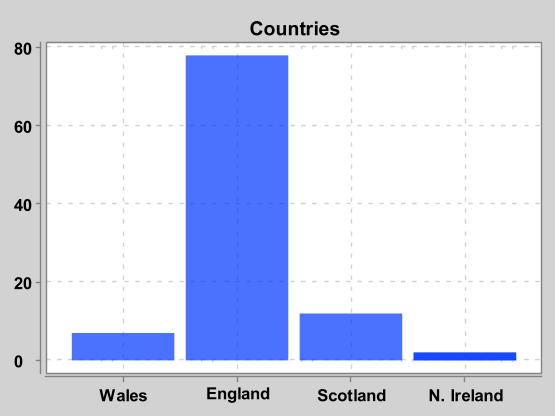
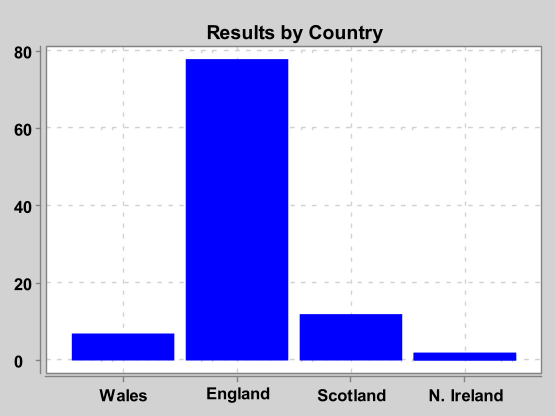
More Bar Charts

diff --git a/PwllStem/src/pwllstem/PwllStem.java b/PwllStem/src/pwllstem/PwllStem.java
@@ -118,14 +118,36 @@ public class PwllStem {
         BitmapEncoder.saveBitmapWithDPI(pieChartNIreVar, "./Pictures/NIREVariantPieChart", BitmapEncoder.BitmapFormat.PNG, 100);
     }
     public static void barChartsInit() throws IOException {
-        CategoryChart barChartVariants = new CategoryChartBuilder().width(400).height(300).title("Variants").build();
+        CategoryChart barChartVariants = new CategoryChartBuilder().width(400).height(300).title("Results by Variant").build();
         barChartVariants.getStyler().setLegendVisible(false);
+        barChartVariants.getStyler().setSeriesColors(new Color[] {Color.BLUE});
         barChartVariants.addSeries("Test", Arrays.asList(new String[] {"Alpha", "Delta", "Omicron", "Unknown"}), Arrays.asList(new Integer[] {alpPer, deltaPer, omiPer, unknownPer}));
-        CategoryChart barChartCountries = new CategoryChartBuilder().width(400).height(300).title("Countries").build();
+        CategoryChart barChartCountries = new CategoryChartBuilder().width(400).height(300).title("Results by Country").build();
         barChartCountries.getStyler().setLegendVisible(false);
+        barChartCountries.getStyler().setSeriesColors(new Color[] {Color.BLUE});
         barChartCountries.addSeries("Test", Arrays.asList(new String[] {"Wales", "England", "Scotland", "N. Ireland"}), Arrays.asList(new Integer[] {walPer, engPer, scoPer, nIrePer}));
+        CategoryChart barChartEngVar = new CategoryChartBuilder().width(400).height(300).title("Results by Variant").build();
+        barChartEngVar.getStyler().setLegendVisible(false);
+        barChartEngVar.getStyler().setSeriesColors(new Color[] {Color.BLUE});
+        barChartEngVar.addSeries("Test", Arrays.asList(new String[] {"Alpha", "Delta", "Omicron", "Unknown"}), Arrays.asList(new Integer[] {engAlpPer, engDeltaPer, engOmiPer, engUnknownPer}));
+        CategoryChart barChartWalVar = new CategoryChartBuilder().width(400).height(300).title("Results by Variant").build();
+        barChartWalVar.getStyler().setLegendVisible(false);
+        barChartWalVar.getStyler().setSeriesColors(new Color[] {Color.BLUE});
+        barChartWalVar.addSeries("Test", Arrays.asList(new String[] {"Alpha", "Delta", "Omicron", "Unknown"}), Arrays.asList(new Integer[] {walAlpPer, walDeltaPer, walOmiPer, walUnknownPer}));
+        CategoryChart barChartScoVar = new CategoryChartBuilder().width(400).height(300).title("Results by Variant").build();
+        barChartScoVar.getStyler().setLegendVisible(false);
+        barChartScoVar.getStyler().setSeriesColors(new Color[] {Color.BLUE});
+        barChartScoVar.addSeries("Test", Arrays.asList(new String[] {"Alpha", "Delta", "Omicron", "Unknown"}), Arrays.asList(new Integer[] {scoAlpPer, scoDeltaPer, scoOmiPer, scoUnknownPer}));
+        CategoryChart barChartNIreVar = new CategoryChartBuilder().width(400).height(300).title("Results by Variant").build();
+        barChartNIreVar.getStyler().setLegendVisible(false);
+        barChartNIreVar.getStyler().setSeriesColors(new Color[] {Color.BLUE});
+        barChartNIreVar.addSeries("Test", Arrays.asList(new String[] {"Alpha", "Delta", "Omicron", "Unknown"}), Arrays.asList(new Integer[] {nIreAlpPer, nIreDeltaPer, nIreOmiPer, nIreUnknownPer}));
         BitmapEncoder.saveBitmapWithDPI(barChartVariants, "./Pictures/UKVariantBarChart", BitmapEncoder.BitmapFormat.PNG, 100);
         BitmapEncoder.saveBitmapWithDPI(barChartCountries, "./Pictures/UKCountryBarChart", BitmapEncoder.BitmapFormat.PNG, 100);
+        BitmapEncoder.saveBitmapWithDPI(barChartEngVar, "./Pictures/ENGVariantBarChart", BitmapEncoder.BitmapFormat.PNG, 100);
+        BitmapEncoder.saveBitmapWithDPI(barChartWalVar, "./Pictures/WALVariantBarChart", BitmapEncoder.BitmapFormat.PNG, 100);
+        BitmapEncoder.saveBitmapWithDPI(barChartScoVar, "./Pictures/SCOVariantBarChart", BitmapEncoder.BitmapFormat.PNG, 100);
+        BitmapEncoder.saveBitmapWithDPI(barChartNIreVar, "./Pictures/NIREVariantBarChart", BitmapEncoder.BitmapFormat.PNG, 100);
     }
     public static void mainUiInit() {
         // Main UI Initialization
@@ -172,6 +194,9 @@ public class PwllStem {
         panelUK = new JPanel(new GridBagLayout());
         lblUKPanel = new JLabel("Cases in UK");
         lblUKPanel.setFont(new Font("Arial", Font.PLAIN, 48));
+        lblUKTotalCases = new JLabel("Total Cases: "+dataSize);
+        lblUKTotalCases.setFont(new Font("Arial", Font.PLAIN, 26));
+        lblUKTotalCases.setForeground(Color.RED);
         JToggleButton BarORPie = new JToggleButton("Bar");
         BarORPie.addChangeListener(event -> {
             if (BarORPie.isSelected()){
@@ -196,6 +221,9 @@ public class PwllStem {
         c.gridy = 0;
         c.gridwidth = 1;
         panelUK.add(BarORPie,c);
+        c.gridx = 2;
+        panelUK.add(lblUKTotalCases,c);
+        c.gridx = 0;
         c.gridwidth = 3;
         panelUK.add(lblUKPanel, c);
         c.gridwidth = 1;
@@ -216,12 +244,32 @@ public class PwllStem {
         panelEngland = new JPanel(new GridBagLayout());
         lblEnglandPanel = new JLabel("Cases in England");
         lblEnglandPanel.setFont(new Font("Arial", Font.PLAIN, 48));
+        lblEngTotalCases = new JLabel("Total Cases: "+dataSize);
+        lblEngTotalCases.setFont(new Font("Arial", Font.PLAIN, 26));
+        lblEngTotalCases.setForeground(Color.RED);
+        JToggleButton BarORPie = new JToggleButton("Bar");
+        BarORPie.addChangeListener(event -> {
+            if (BarORPie.isSelected()){
+                BarORPie.setText("Pie");
+                lblEnglandPieChart.setIcon(new ImageIcon("./Pictures/ENGVariantBarChart.png"));
+
+            } else {
+                BarORPie.setText("Bar");
+                lblEnglandPieChart.setIcon(new ImageIcon("./Pictures/ENGVariantPieChart.png"));
+
+            }
+        });
         lblEnglandPieChart = new JLabel();
         lblEnglandPieChart.setIcon(new ImageIcon("./Pictures/ENGVariantPieChart.png"));
         c = new GridBagConstraints();
-        c.gridwidth = 1;
         c.gridx = 0;
         c.gridy = 0;
+        c.gridwidth = 1;
+        panelEngland.add(BarORPie, c);
+        c.gridx = 2;
+        panelEngland.add(lblEngTotalCases, c);
+        c.gridx = 0;
+        c.gridwidth = 3;
         panelEngland.add(lblEnglandPanel,c);
         c.gridy = 1;
         panelEngland.add(lblEnglandPieChart,c);
@@ -234,12 +282,32 @@ public class PwllStem {
         panelWales = new JPanel(new GridBagLayout());
         lblWalesPanel = new JLabel("Cases in Wales");
         lblWalesPanel.setFont(new Font("Arial", Font.PLAIN, 48));
+        lblWalTotalCases = new JLabel("Total Cases: "+dataSize);
+        lblWalTotalCases.setFont(new Font("Arial", Font.PLAIN, 26));
+        lblWalTotalCases.setForeground(Color.RED);
+        JToggleButton BarORPie = new JToggleButton("Bar");
+        BarORPie.addChangeListener(event -> {
+            if (BarORPie.isSelected()){
+                BarORPie.setText("Pie");
+                lblWalesPieChart.setIcon(new ImageIcon("./Pictures/WALVariantBarChart.png"));
+
+            } else {
+                BarORPie.setText("Bar");
+                lblWalesPieChart.setIcon(new ImageIcon("./Pictures/WALVariantPieChart.png"));
+
+            }
+        });
         lblWalesPieChart = new JLabel();
         lblWalesPieChart.setIcon(new ImageIcon("./Pictures/WALVariantPieChart.png"));
         c = new GridBagConstraints();
-        c.gridwidth = 1;
         c.gridx = 0;
         c.gridy = 0;
+        c.gridwidth = 1;
+        panelWales.add(BarORPie, c);
+        c.gridx = 2;
+        panelWales.add(lblWalTotalCases, c);
+        c.gridx = 0;
+        c.gridwidth = 3;
         panelWales.add(lblWalesPanel,c);
         c.gridy = 1;
         panelWales.add(lblWalesPieChart,c);
@@ -252,12 +320,32 @@ public class PwllStem {
         panelScotland = new JPanel(new GridBagLayout());
         lblScotlandPanel = new JLabel("Cases in Scotland");
         lblScotlandPanel.setFont(new Font("Arial", Font.PLAIN, 48));
+        lblScoTotalCases = new JLabel("Total Cases: "+dataSize);
+        lblScoTotalCases.setFont(new Font("Arial", Font.PLAIN, 26));
+        lblScoTotalCases.setForeground(Color.RED);
+        JToggleButton BarORPie = new JToggleButton("Bar");
+        BarORPie.addChangeListener(event -> {
+            if (BarORPie.isSelected()){
+                BarORPie.setText("Pie");
+                lblScotlandPieChart.setIcon(new ImageIcon("./Pictures/SCOVariantBarChart.png"));
+
+            } else {
+                BarORPie.setText("Bar");
+                lblScotlandPieChart.setIcon(new ImageIcon("./Pictures/SCOVariantPieChart.png"));
+
+            }
+        });
         lblScotlandPieChart = new JLabel();
         lblScotlandPieChart.setIcon(new ImageIcon("./Pictures/SCOVariantPieChart.png"));
         c = new GridBagConstraints();
-        c.gridwidth = 1;
         c.gridx = 0;
         c.gridy = 0;
+        c.gridwidth = 1;
+        panelScotland.add(BarORPie, c);
+        c.gridx = 2;
+        panelScotland.add(lblScoTotalCases, c);
+        c.gridx = 0;
+        c.gridwidth = 3;
         panelScotland.add(lblScotlandPanel,c);
         c.gridy = 1;
         panelScotland.add(lblScotlandPieChart,c);
@@ -270,12 +358,32 @@ public class PwllStem {
         panelNire = new JPanel(new GridBagLayout());
         lblNIrePanel = new JLabel("Cases in Northern Ireland");
         lblNIrePanel.setFont(new Font("Arial", Font.PLAIN, 48));
+        lblNIreTotalCases = new JLabel("Total Cases: "+dataSize);
+        lblNIreTotalCases.setFont(new Font("Arial", Font.PLAIN, 26));
+        lblNIreTotalCases.setForeground(Color.RED);
+        JToggleButton BarORPie = new JToggleButton("Bar");
+        BarORPie.addChangeListener(event -> {
+            if (BarORPie.isSelected()){
+                BarORPie.setText("Pie");
+                lblNIrePieChart.setIcon(new ImageIcon("./Pictures/NIREVariantBarChart.png"));
+
+            } else {
+                BarORPie.setText("Bar");
+                lblNIrePieChart.setIcon(new ImageIcon("./Pictures/NIREVariantPieChart.png"));
+
+            }
+        });
         lblNIrePieChart = new JLabel();
         lblNIrePieChart.setIcon(new ImageIcon("./Pictures/NIREVariantPieChart.png"));
         c = new GridBagConstraints();
-        c.gridwidth = 1;
         c.gridx = 0;
         c.gridy = 0;
+        c.gridwidth = 1;
+        panelNire.add(BarORPie, c);
+        c.gridx = 2;
+        panelNire.add(lblNIreTotalCases, c);
+        c.gridx = 0;
+        c.gridwidth = 3;
         panelNire.add(lblNIrePanel,c);
         c.gridy = 1;
         panelNire.add(lblNIrePieChart,c);

diff --git a/PwllStem/src/pwllstem/preInit.java b/PwllStem/src/pwllstem/preInit.java
@@ -40,9 +40,9 @@ public class preInit {
     // UI Variables Declaration
     public static JFrame frameMain, frameUK, frameWales, frameEngland, frameScotland, frameNIre ;
     public static JPanel panelMain, panelUK, panelWales, panelEngland, panelScotland, panelNire;
-    public static JLabel lblMain, lblUKPanel, lblCountryUKPieChart, lblVariantUKPieChart,
-            lblEnglandPanel, lblEnglandPieChart, lblWalesPanel, lblWalesPieChart,
-            lblScotlandPanel, lblScotlandPieChart, lblNIrePanel, lblNIrePieChart;
+    public static JLabel lblMain, lblUKPanel, lblUKTotalCases, lblCountryUKPieChart, lblVariantUKPieChart,
+            lblEnglandPanel, lblEngTotalCases, lblEnglandPieChart, lblWalesPanel, lblWalTotalCases, lblWalesPieChart,
+            lblScotlandPanel, lblScoTotalCases, lblScotlandPieChart, lblNIrePanel, lblNIreTotalCases, lblNIrePieChart;
     public static JButton btnUK , btnWales, btnEngland, btnScotland, btnNIre;
 
     public static GridBagConstraints c;
